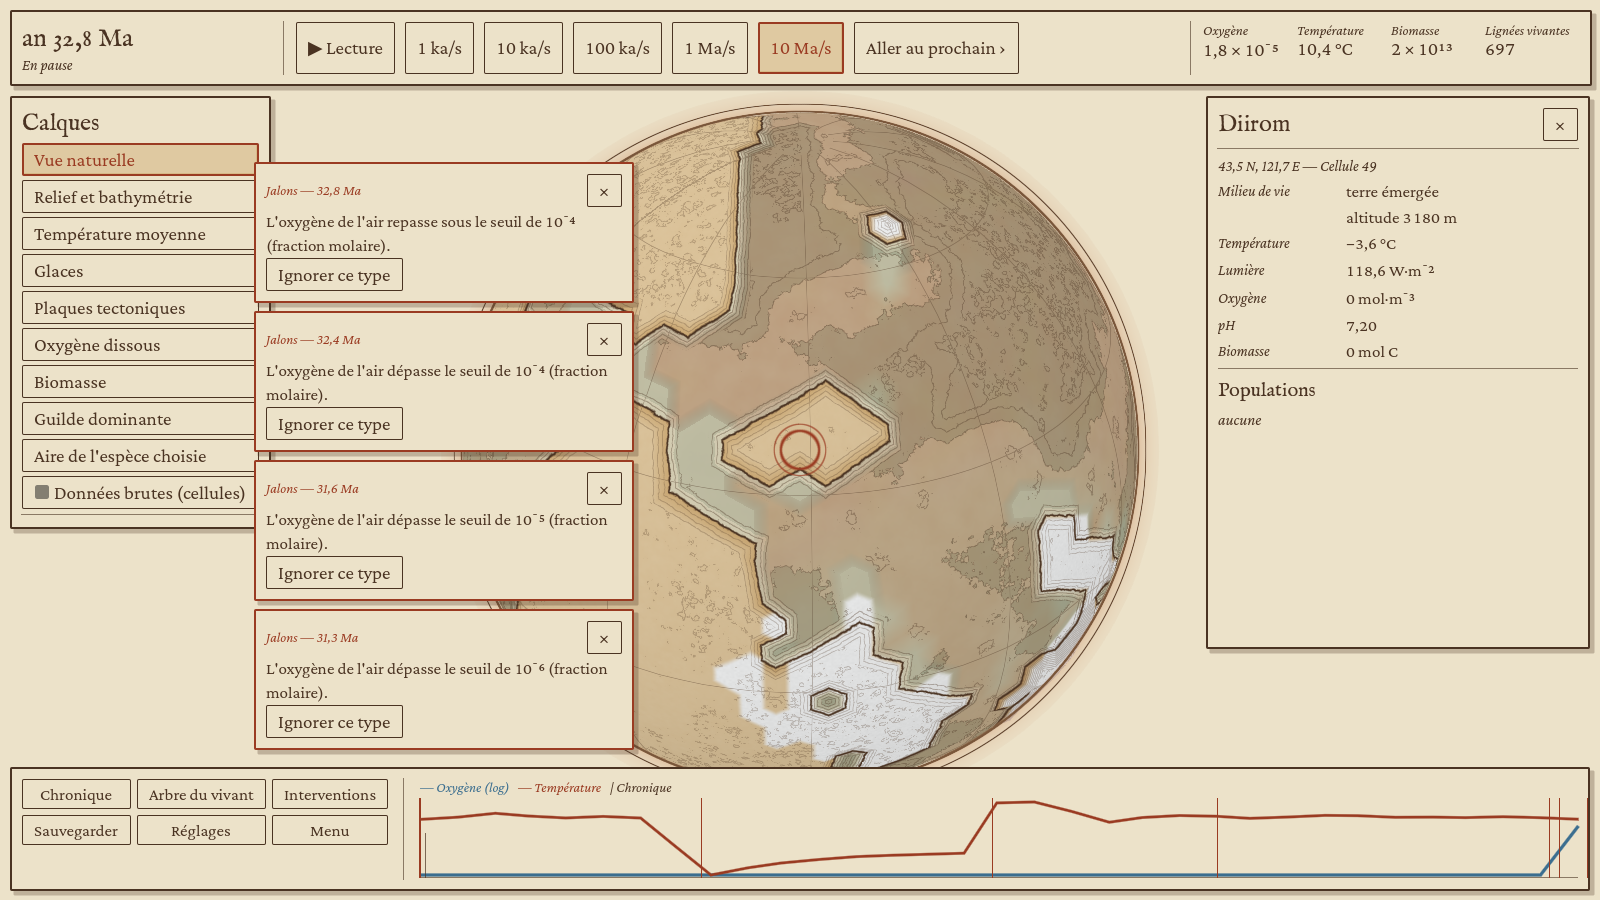
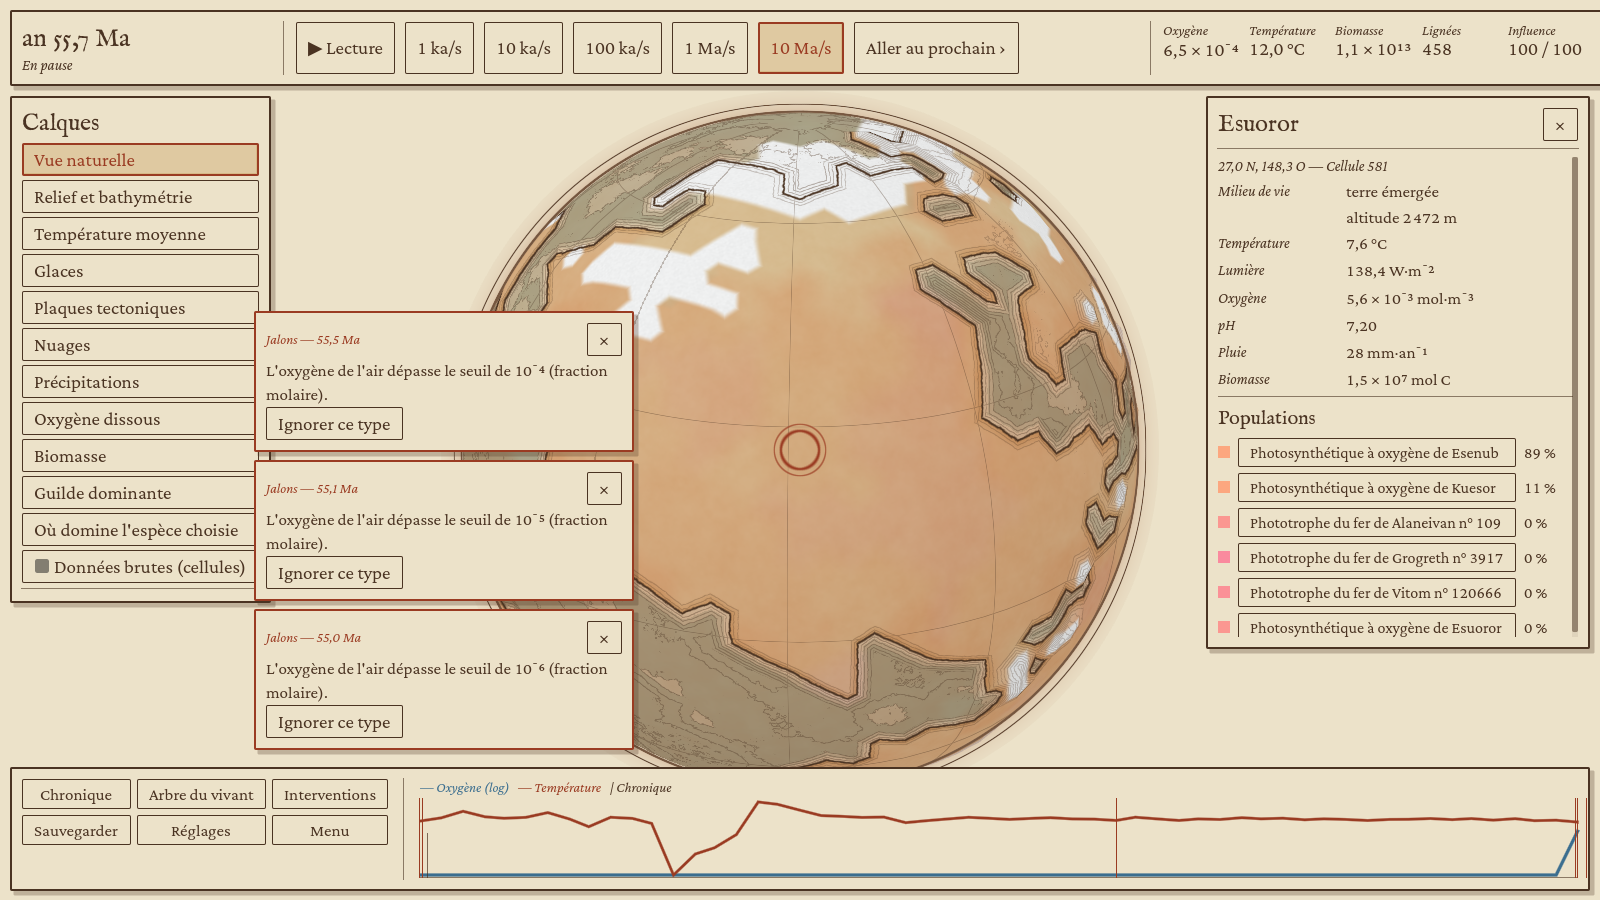
Client : noms courants lisibles des espèces ; captures et rapport de la porte sur evo-engine
Claude-Session: https://claude.ai/code/session_01VEfbKhsTAGonx769dDBjTj

diff --git a/crates/evo-godot/src/session.rs b/crates/evo-godot/src/session.rs
@@ -168,17 +168,27 @@ impl EvoSession {
         }
     }
 
-    /// Nom courant d'une espèce (guilde) : celui du moteur en français.
+    /// Nom courant d'une espèce (guilde) : son métabolisme principal et la
+    /// région où elle est apparue (« Photosynthétique à oxygène d'Iranou »).
+    /// Le nom du moteur, qui énumère toutes ses voies, reste dans la fiche.
     fn species_name(&self, f: &Frame, species: u32) -> String {
-        match (self.lang, f.species(species)) {
-            (Lang::Fr, Some(s)) => s.name.clone(),
-            _ => {
-                let mut c = guild_common(main_reaction(species), self.lang).to_string();
-                if let Some(first) = c.get(0..1) {
-                    c = first.to_uppercase() + &c[1..];
-                }
-                c
+        let common = guild_common(main_reaction(species), self.lang);
+        let place = match (f.species(species), &self.grid) {
+            (Some(s), Some(g)) => {
+                let cell = (s.origin_bio_cell as usize).min(g.len().saturating_sub(1));
+                Some(evo_view::naming::place_name(f.planet.seed, evo_view::naming::region_of(g, cell)))
             }
+            _ => None,
+        };
+        let mut c = common.to_string();
+        if let Some(first) = c.chars().next() {
+            c = first.to_uppercase().collect::<String>() + &c[first.len_utf8()..];
+        }
+        match (self.lang, place) {
+            (Lang::Fr, Some(p)) if p.starts_with(['A', 'E', 'I', 'O', 'U']) => format!("{c} d'{p}"),
+            (Lang::Fr, Some(p)) => format!("{c} de {p}"),
+            (Lang::En, Some(p)) => format!("{p} {common}"),
+            (_, None) => c,
         }
     }
 

diff --git a/docs/etape-3-client.md b/docs/etape-3-client.md
@@ -9,11 +9,11 @@ Feuille de route (document Vision, périmètre consolidé de l'étape 3) : le cl
 | Créer une planète | oui : préréglage, graine, distance à l'étoile, part d'eau, étoile, grille ; code de planète à partager | capture `02-creation.png` |
 | Ensemencer | oui : près des sources hydrothermales ou dans toutes les mers | scénario, `vie_deposee` |
 | Intervenir | oui : phosphate autour d'un lieu choisi, éruption (CO₂, méthane) ; le coût est pris sur la réserve d'influence, l'ordre passe par la file et revient dans la chronique comme « votre intervention » (ou « refusée ») | `intervention_appliquee` |
-| Voir l'oxygène monter | oui : O₂ de l'air au-dessus de 10⁻⁴ à 32,6 Ma (Terre archéenne, graine 2026, 2 562 cellules), en 106 s de temps réel | `rapport.json`, capture `10-oxygene-frise.png` |
-| Rejeu identique sur deux chemins de caméra | oui : même empreinte d'état après 20 pas (40 en intégration continue), caméra lointaine sur l'équateur ou plongée sur un pôle | `rejeu.json` |
+| Voir l'oxygène monter | oui : O₂ de l'air au-dessus de 10⁻⁴ à 55,6 Ma (Terre archéenne, graine 2026, 2 562 cellules), en 149 s de temps réel ; la date varie d'une partie jouée à l'autre (34,5 et 55,6 Ma sur deux essais), car le joueur change la vitesse à des dates différentes | `rapport.json`, capture `10-oxygene-frise.png` |
+| Rejeu identique sur deux chemins de caméra | oui : même empreinte d'état après 40 pas, caméra lointaine sur l'équateur ou plongée sur un pôle | `rejeu.json` |
 | Rejeu après rechargement d'un point de sauvegarde | oui : même empreinte | `rejeu.json` |
 | Rejeu identique sous Linux et Windows | comparé par l'intégration continue (job bloquant), maintenant que le moteur calcule avec des fonctions mathématiques déterministes | job `client-rejeu-identique` |
-| 60 images par seconde sur la machine cible | non vérifiable ici : 3 images par seconde en rendu Vulkan logiciel (lavapipe, 4 cœurs) ; le pont coûte 0,6 ms par image | « Mesures » |
+| 60 images par seconde sur la machine cible | non vérifiable ici : 3 images par seconde en rendu Vulkan logiciel (lavapipe, 4 cœurs) ; le pont coûte 0,65 ms par image | « Mesures » |
 
 ## Ce que le joueur voit
 
@@ -54,10 +54,10 @@ Conteneur de développement : 4 cœurs Xeon à 2,8 GHz, sans carte graphique ; r
 
 | Mesure | Valeur |
 |---|---|
-| Vitesse tenue par le moteur | environ 400 ka/s pendant que le client dessine |
+| Vitesse tenue par le moteur | 450 à 800 ka/s pendant que le client dessine |
 | Images par seconde | 3 (médiane), rendu logiciel |
 | Durée d'une image | 133 ms (médiane), 146 ms (95ᵉ centile) |
-| Pont Rust → Godot (textures de données d'un pas) | 0,59 ms en moyenne, 2,1 ms au plus |
+| Pont Rust → Godot (textures de données d'un pas) | 0,65 ms en moyenne, 7,6 ms au plus |
 
 Le rendu logiciel dessine chaque pixel sur le processeur, qu'il partage avec la simulation : ces 3 images par seconde ne disent rien de la machine cible. Le globe compte une seule surface de 10 242 sommets au niveau 5 (40 962 au niveau 6) et un shader de fragment sans texture d'image, ce qu'une carte graphique d'entrée de gamme dessine bien au-delà de 60 images par seconde ; la mesure reste à faire sur la machine cible, avec le scénario `--porte` qui la consigne dans `rapport.json`.
 
